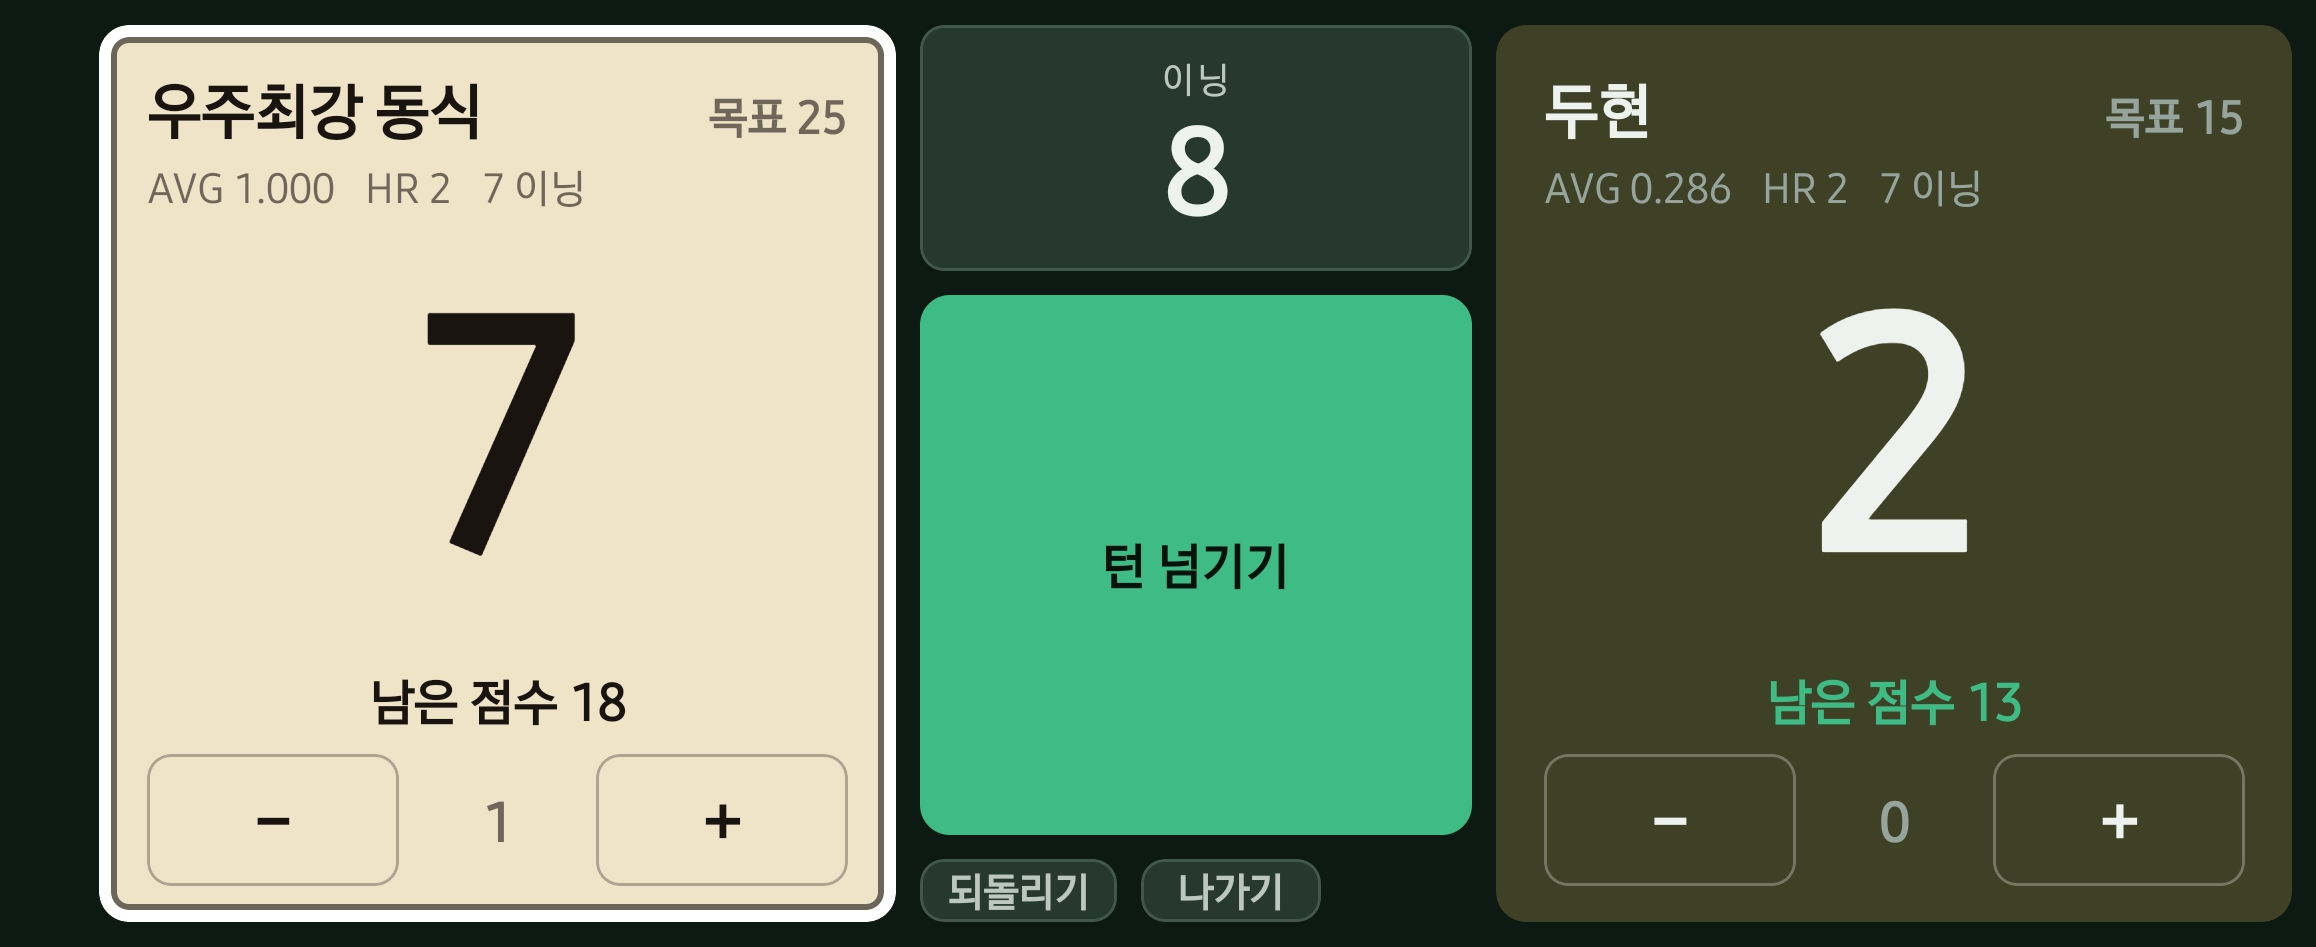
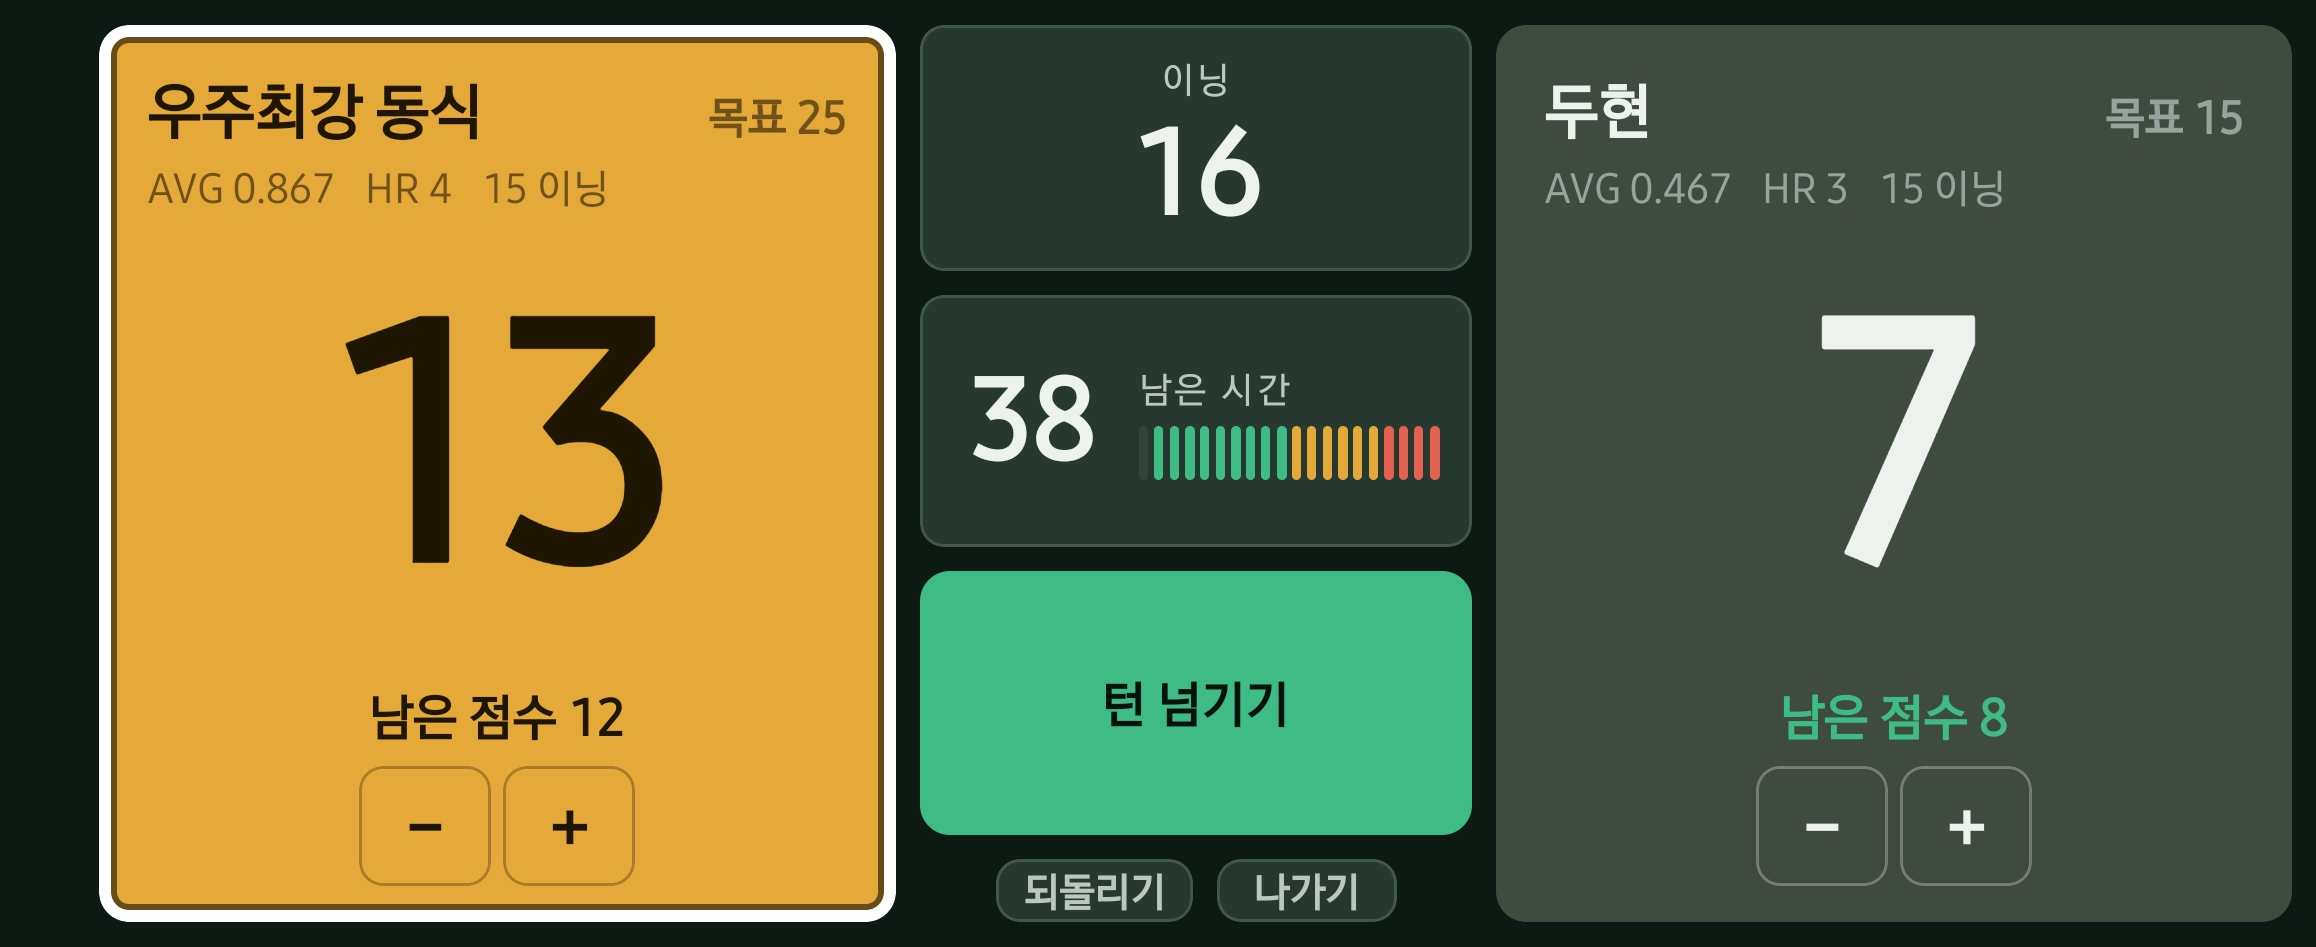
Update Everboard website screenshots for 1.0.6

diff --git a/everboard/index.html b/everboard/index.html
@@ -25,7 +25,7 @@
     <div class="table-lines" aria-hidden="true"><i></i><i></i><i></i></div>
     <span class="visual-label">EVERBOARD / SCORE & RECORD</span>
     <figure class="scoreboard">
-      <img class="" src="assets/game-2p.png" alt="에버보드 실제 가로 점수판. 두 선수의 점수 7 대 2, 목표점, 에버리지와 이닝이 표시됩니다." width="2316" height="947" fetchpriority="high" decoding="async">
+      <img class="" src="assets/game-2p.png" alt="에버보드 실제 가로 점수판. 두 선수의 점수 13 대 7, 목표점, 에버리지와 이닝이 표시됩니다." width="2316" height="947" fetchpriority="high" decoding="async">
       <figcaption>실제 앱 화면 · 2인 경기</figcaption>
     </figure>
     <div class="visual-bottom"><span><i class="ball white"></i><i class="ball yellow"></i><i class="ball red"></i></span><span>오늘의 한 판을 남겨보세요.</span></div>
